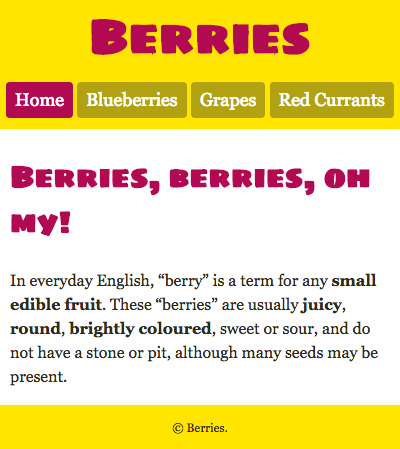
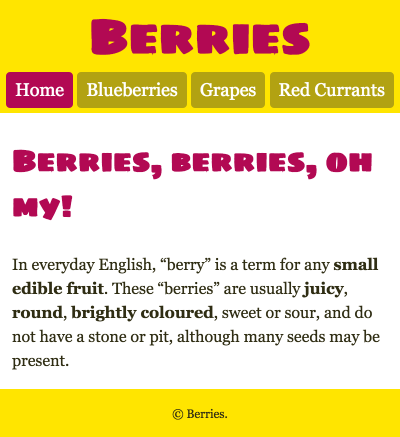
Simplify the layout to remove random margins & paddings

diff --git a/README.md b/README.md
@@ -22,8 +22,8 @@ deliverables: "4 HTML files, 1 CSS file, images"
 - *Text sizes*: `3rem`, `1.875rem`, `1.125rem`, `.75rem`
 - *Colours:* `#2f2d13`, `#cc1465`, `#ffe500`, `#b20953`, `#b2a212`
 - *Line height:* `1.5`
-- *Paddings:* `0 0 .4em`, `.2em .5em .3em`, `0 10px`, `10px`
-- *Margins:* `0 0 .2em`, `.3em`
+- *Paddings:* `.2em .5em .3em`, `0 .75em`, `.75em`
+- *Margins:* `.3em`
 - *Corner radius*: `4px`
 
 ---
